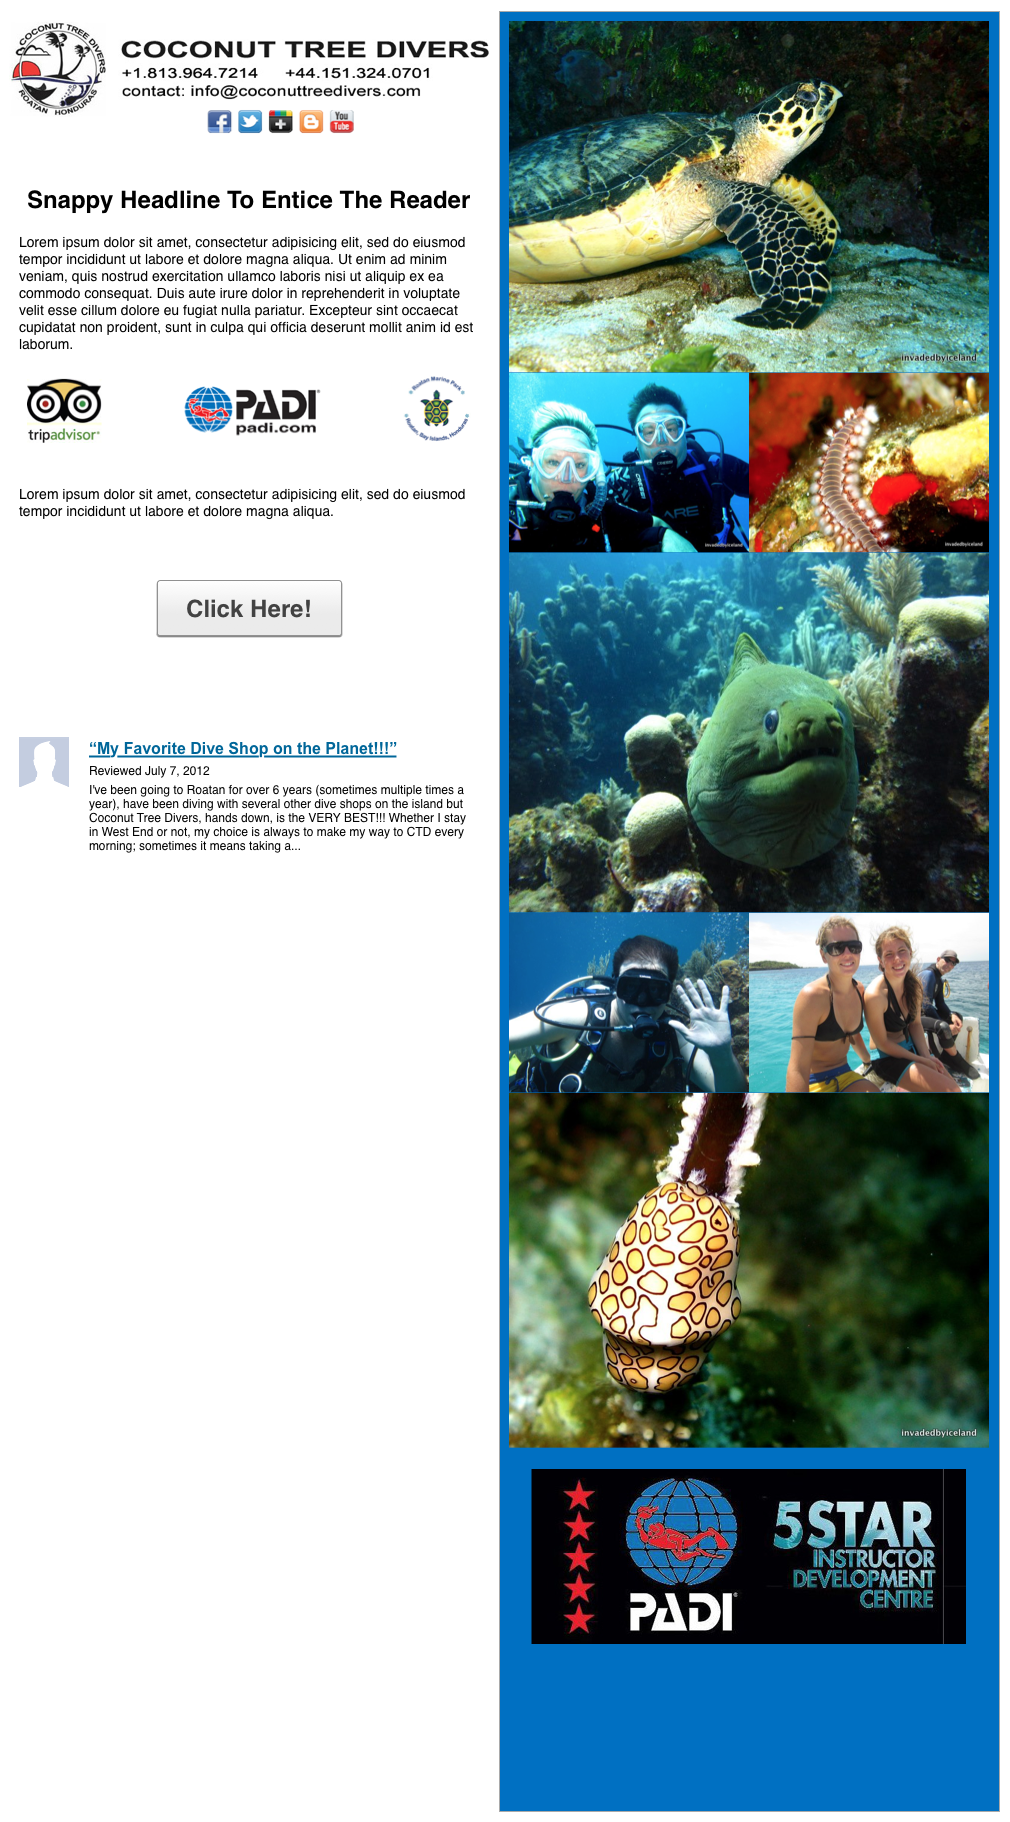
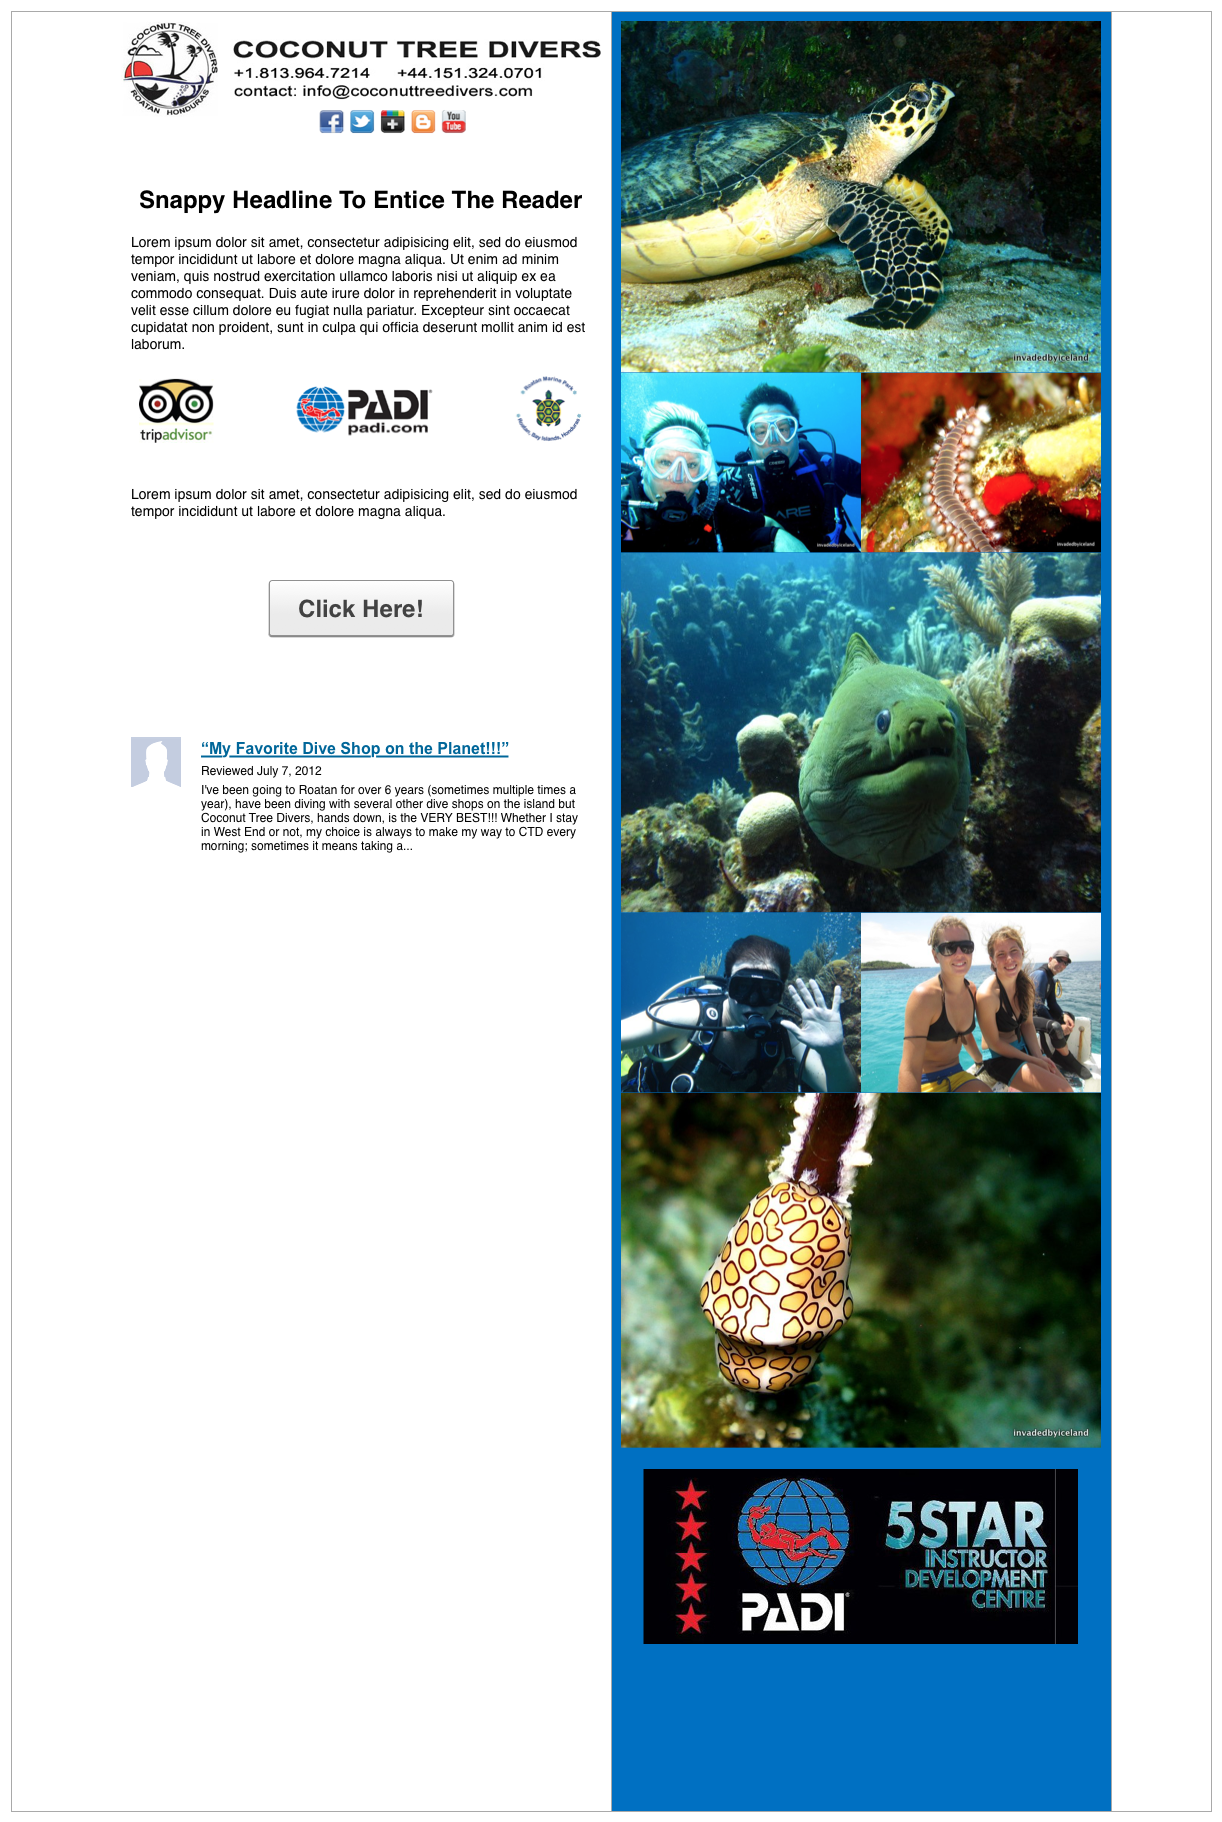
updated photo

diff --git a/landing_pages_01.md b/landing_pages_01.md
@@ -1,0 +1,51 @@
+# Landing Pages
+
+Just a quick mockup of a landing page suited for converting prospects to CTD promotions.
+
+<table cellpadding="2">
+<tr>
+<td>
+<img src="https://raw.github.com/jayfallon/Coconut-Tree-Divers/master/landing_page_01.png?login=jayfallon&token=64869c56df25a19414668132ddb86bcf" width="300">
+</td>
+<td>
+<img src="https://raw.github.com/jayfallon/Coconut-Tree-Divers/master/landing_page_01_desc.png?login=jayfallon&token=efd546a0efbe9819b285ce05921d5883" width="300">
+</td>
+</tr>
+</table>
+
+### Components
+
+For the landing page I've incorporated five separate components:
+
+* Branding
+* Messaging
+* Product
+* Social Proof
+* Call To Action
+
+#### 1. Branding
+
+The branding is rather simple and clear consisting of the CTD logo displayed at the top of the page. The logo should be linked back to http://coconuttreedivers.com. The social media buttons could be pared down a bit to only include Facebook and Twitter or other primary sources of content that would be in context with what you are promoting.
+
+#### 2. Messaging
+
+The messaging consists of a simple tagline to get the user's attention with a message of promise towards what CTD will do for them.
+
+Directly below is brief descriptive text explaining what CTD is and what type of services are offered. Links to other parts of the site (blog, courses, crew would be appropriate).
+
+#### 3. Product
+
+What better description than to let the product speak for itself? All images linked back to blog, photo albums, etc. Keep in mind that some people will not have access to walled applications like Facebook or simply do not have an account, so a service like Imgur.com that provides free, public image hosting could be employed in these circumstances to host curated albums relevant to the promotion.
+
+In this case I used some images that describe the type of sea life a diver would encounter on a dive, photos of divers enjoying themselves and a photo of the crew. It's not visible but follows a pattern of "Who, What, When, Where and How."
+
+#### 4. Social Proof
+
+While "as featured in" pieces are sort of lazy, they do provide the user with almost instantaneous recognition of the value that the product has in the marketplace. In this case you could use Padi and Trip Advisor while RMP may not be as relevant. Those logos would link back to content on the third-party site relevant to CTD or the promotion offered.
+
+This social proof is reinforced by personal testimonials from other users. I used a generic review from Trip Advisor that has a photo, tag line and descriptive testimonial. It should be linked back to the CTD testimonials on Trip Advisor
+
+#### 5. Call to action
+
+The call to action is highly-visible, unambigious and centered in the user's line-of-sight. In this case it's a link to a sign-up page. In an even simpler incarnation it could be just a form to collect their email address to commence an engagement relationship or a phone number to CTD that would be automatically activated on a smartphone.
+
